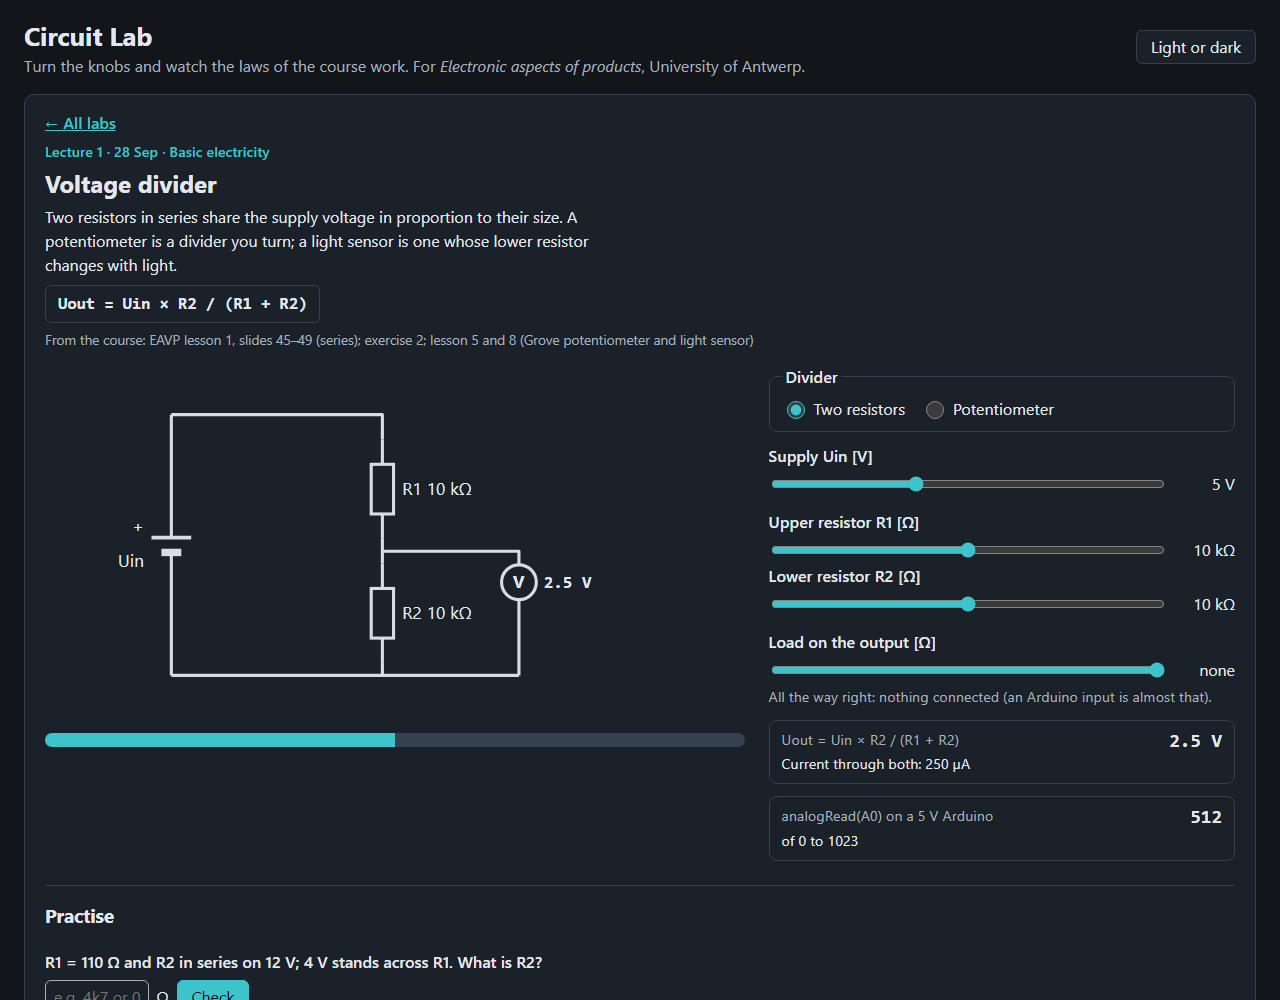
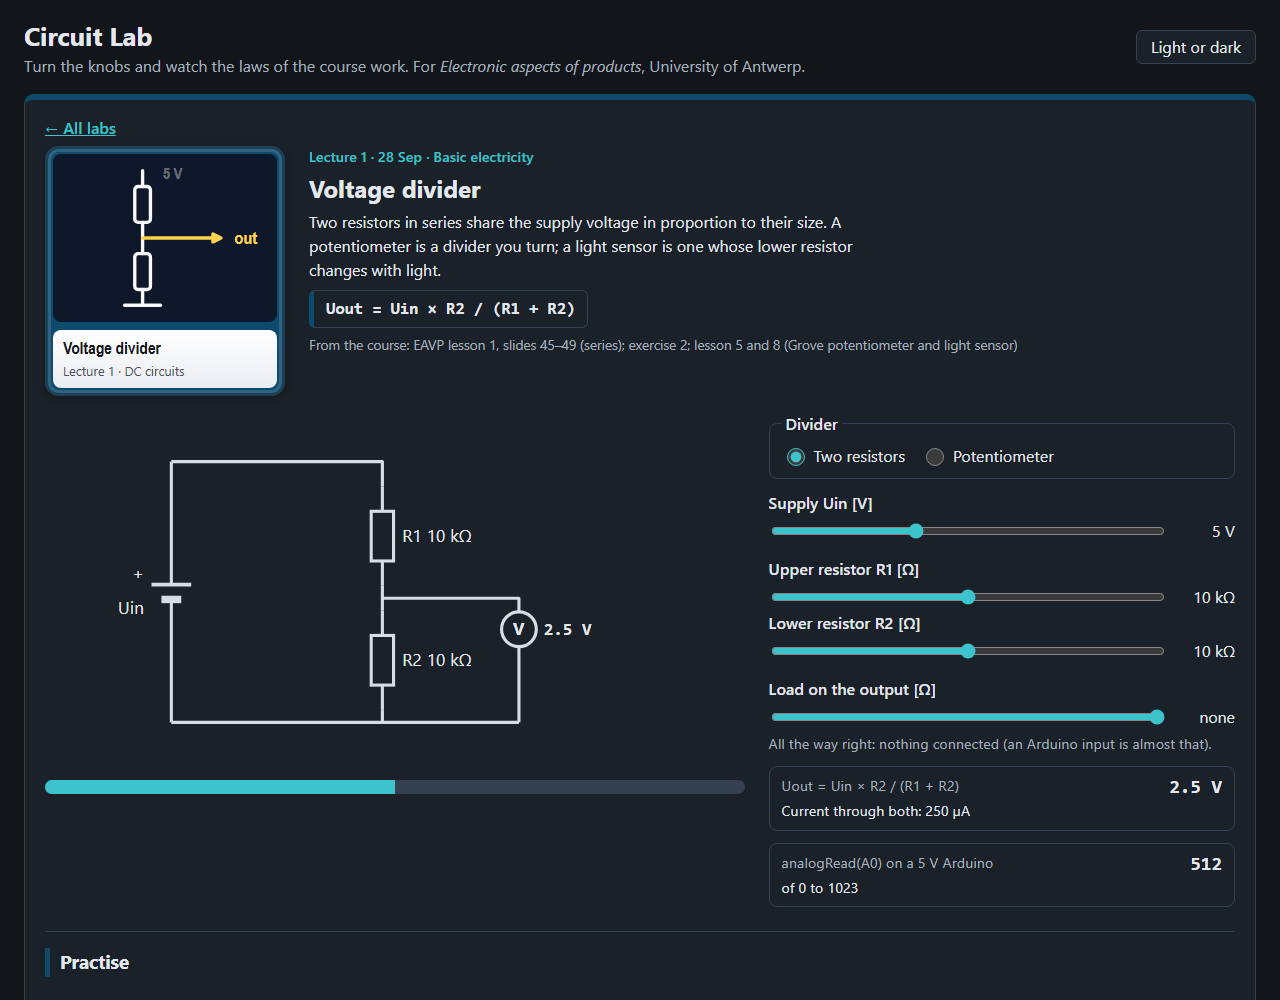
Lab pages open with their card
The lab's card, large, beside its lecture, idea and law; the topic family's
colour as a band along the top and beside the law and Practise. One place
in the stylesheet sets the family colours for cards and pages alike.

diff --git a/style.css b/style.css
@@ -48,13 +48,14 @@ main { padding: 8px 24px 32px; max-width: 1280px; }
 
 /* A lab card after the Methodical card game: a frame in its family's colour, the picture on a dark art box, the
    title on a light plate. The card is a printed object, so it keeps its colours in both themes. */
-.card { --frame: #0C4A6E; display: flex; flex-direction: column; gap: 8px; padding: 8px; border-radius: 14px; text-decoration: none;
+.card { display: flex; flex-direction: column; gap: 8px; padding: 8px; border-radius: 14px; text-decoration: none;
         background: var(--frame); box-shadow: inset 0 0 0 3px rgba(0,0,0,.35), inset 0 0 0 6px rgba(255,255,255,.14), 0 2px 6px rgba(0,0,0,.25);
         transition: transform .12s ease, box-shadow .12s ease; }
-.card[data-family=mains] { --frame: #9F1239; }
-.card[data-family=arduino] { --frame: #047857; }
-.card[data-family=electronics] { --frame: #6D28D9; }
-.card[data-family=energy] { --frame: #92400E; }
+[data-family] { --frame: #0C4A6E; }
+[data-family=mains] { --frame: #9F1239; }
+[data-family=arduino] { --frame: #047857; }
+[data-family=electronics] { --frame: #6D28D9; }
+[data-family=energy] { --frame: #92400E; }
 .card .art { display: block; border-radius: 8px; overflow: hidden; line-height: 0; box-shadow: inset 0 0 0 2px rgba(0,0,0,.4); }
 .card .art svg { width: 100%; height: auto; }
 .card .plate { display: grid; gap: 2px; padding: 8px 10px; border-radius: 8px; background: linear-gradient(#ffffff, #e9ecf1); color: #16181d; }
@@ -179,3 +180,22 @@ table.method tr.here td { background: var(--danger-bg); font-weight: 700; }
 .bit .weight { color: var(--muted); font-size: 0.85rem; }
 .bit[aria-pressed=true] { border-color: var(--accent); background: color-mix(in srgb, var(--accent) 14%, var(--panel)); }
 table.method td:last-child { white-space: nowrap; }
+
+/* A lab page opens with its card, large, and keeps the family colour as a band along its top. */
+.panel[data-family] { border-top: 6px solid var(--frame); }
+.hero { display: grid; grid-template-columns: 240px minmax(0, 1fr); gap: 24px; align-items: start; }
+.hero-card { display: flex; flex-direction: column; gap: 8px; padding: 8px; border-radius: 14px; background: var(--frame);
+             box-shadow: inset 0 0 0 3px rgba(0,0,0,.35), inset 0 0 0 6px rgba(255,255,255,.14), 0 2px 6px rgba(0,0,0,.25); }
+.hero-card .art { display: block; border-radius: 8px; overflow: hidden; line-height: 0; }
+.hero-card .art svg { width: 100%; height: auto; }
+.hero-card .plate { display: grid; gap: 2px; padding: 8px 10px; border-radius: 8px; background: linear-gradient(#ffffff, #e9ecf1); color: #16181d; }
+.hero-card .name { font: 700 1.05rem/1.2 "Arial Narrow", "Roboto Condensed", system-ui, sans-serif; }
+.hero-card .meta { font-size: 0.8rem; color: #4b5059; }
+.panel .law { border-left: 5px solid var(--frame); }
+.practice-list h3 { border-left: 5px solid var(--frame); padding-left: 10px; }
+@media (max-width: 760px) {
+  .hero { grid-template-columns: 1fr; gap: 12px; }
+  .hero-card { flex-direction: row; align-items: center; }
+  .hero-card .art { width: 110px; flex: none; }
+  .hero-card .plate { flex: 1; }
+}

diff --git a/src/app.js b/src/app.js
@@ -57,12 +57,18 @@ async function start() {
     const w = words.get(id), { lecture } = order[at.get(id)];
     const prev = order[at.get(id) - 1], next = order[at.get(id) + 1];
     const body = h("div", { class: "lab" });
-    const section = h("section", { class: "panel", "aria-labelledby": `title-${id}` },
-      h("header", { class: "intro" },
-        h("a", { href: "#", class: "back" }, "← All labs"),
-        h("p", { class: "eyebrow" }, `Lecture ${lecture.number} · ${lecture.date} · ${lecture.title}`),
-        h("h2", { id: `title-${id}`, tabindex: "-1" }, w.title), h("p", { class: "idea" }, w.idea),
-        h("p", { class: "law" }, w.law), h("p", { class: "source" }, `From the course: ${w.lecture}`)),
+    // The lab opens with its card, large: the same picture and frame as on the overview, so the two read as one.
+    const art = h("span", { class: "art", "aria-hidden": "true" });
+    art.innerHTML = code.get(id).art();
+    const section = h("section", { class: "panel", "data-family": lecture.family, "aria-labelledby": `title-${id}` },
+      h("a", { href: "#", class: "back" }, "← All labs"),
+      h("header", { class: "hero" },
+        h("div", { class: "hero-card" }, art, h("span", { class: "plate" },
+          h("span", { class: "name" }, w.title), h("span", { class: "meta" }, `Lecture ${lecture.number} · ${family.get(lecture.family)}`))),
+        h("div", { class: "intro" },
+          h("p", { class: "eyebrow" }, `Lecture ${lecture.number} · ${lecture.date} · ${lecture.title}`),
+          h("h2", { id: `title-${id}`, tabindex: "-1" }, w.title), h("p", { class: "idea" }, w.idea),
+          h("p", { class: "law" }, w.law), h("p", { class: "source" }, `From the course: ${w.lecture}`))),
       body,
       w.practice.length ? h("section", { class: "practice-list" }, h("h3", {}, "Practise"),
         w.practice.map(q => practice({ ...q, parse: parseSi }))) : null,

diff --git a/README.md b/README.md
@@ -16,7 +16,7 @@ the meters and the numbers follow. Made by the [SMART Lab](https://github.com/UA
 
 <p align="center">
   <img src="docs/light.png" alt="The overview in the light theme: the lectures in order, each with a row of cards; every card has a line drawing of its idea, such as a circuit loop with a current arrow for Ohm's law, and a frame coloured by topic" width="49%">
-  <img src="docs/dark.png" alt="A lab page in the dark theme: the voltage divider of lecture 1, its circuit with a voltmeter reading 2.5 V, its sliders and the analogRead result 512" width="49%">
+  <img src="docs/dark.png" alt="A lab page in the dark theme: the voltage divider of lecture 1 opens with its card, then its circuit with a voltmeter reading 2.5 V, its sliders and the analogRead result 512" width="49%">
 </p>
 
 ## The labs
